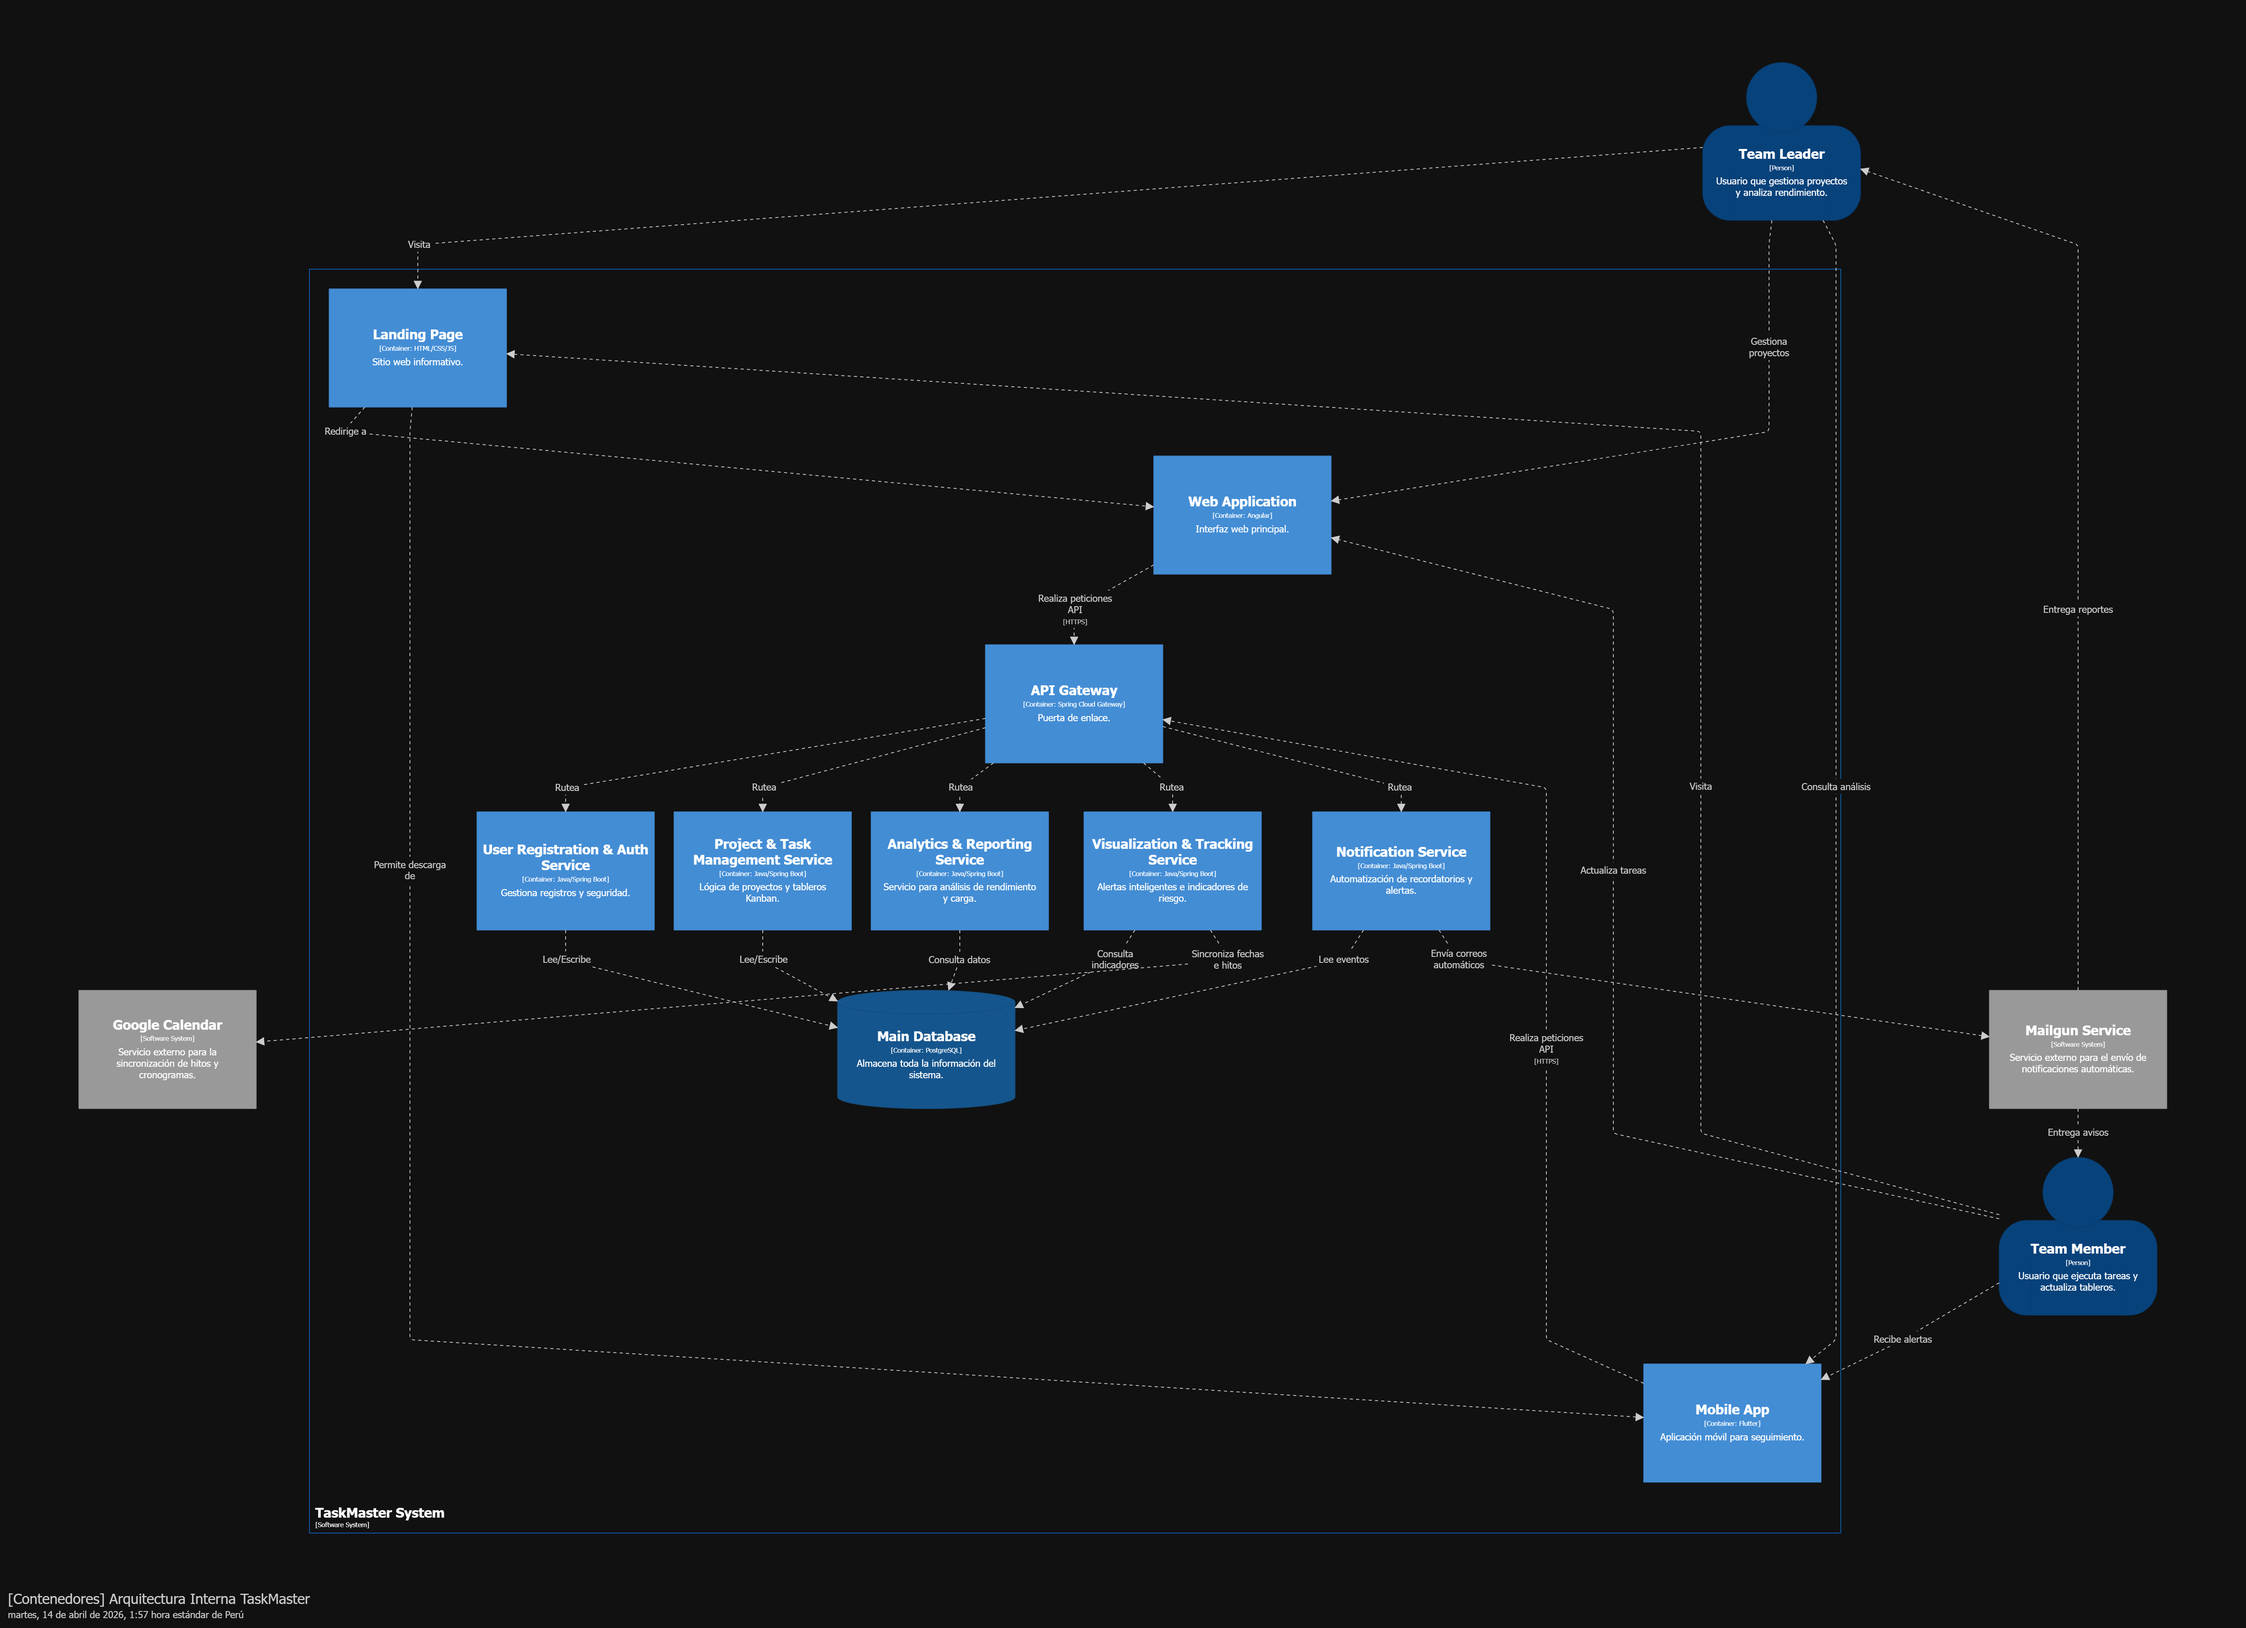
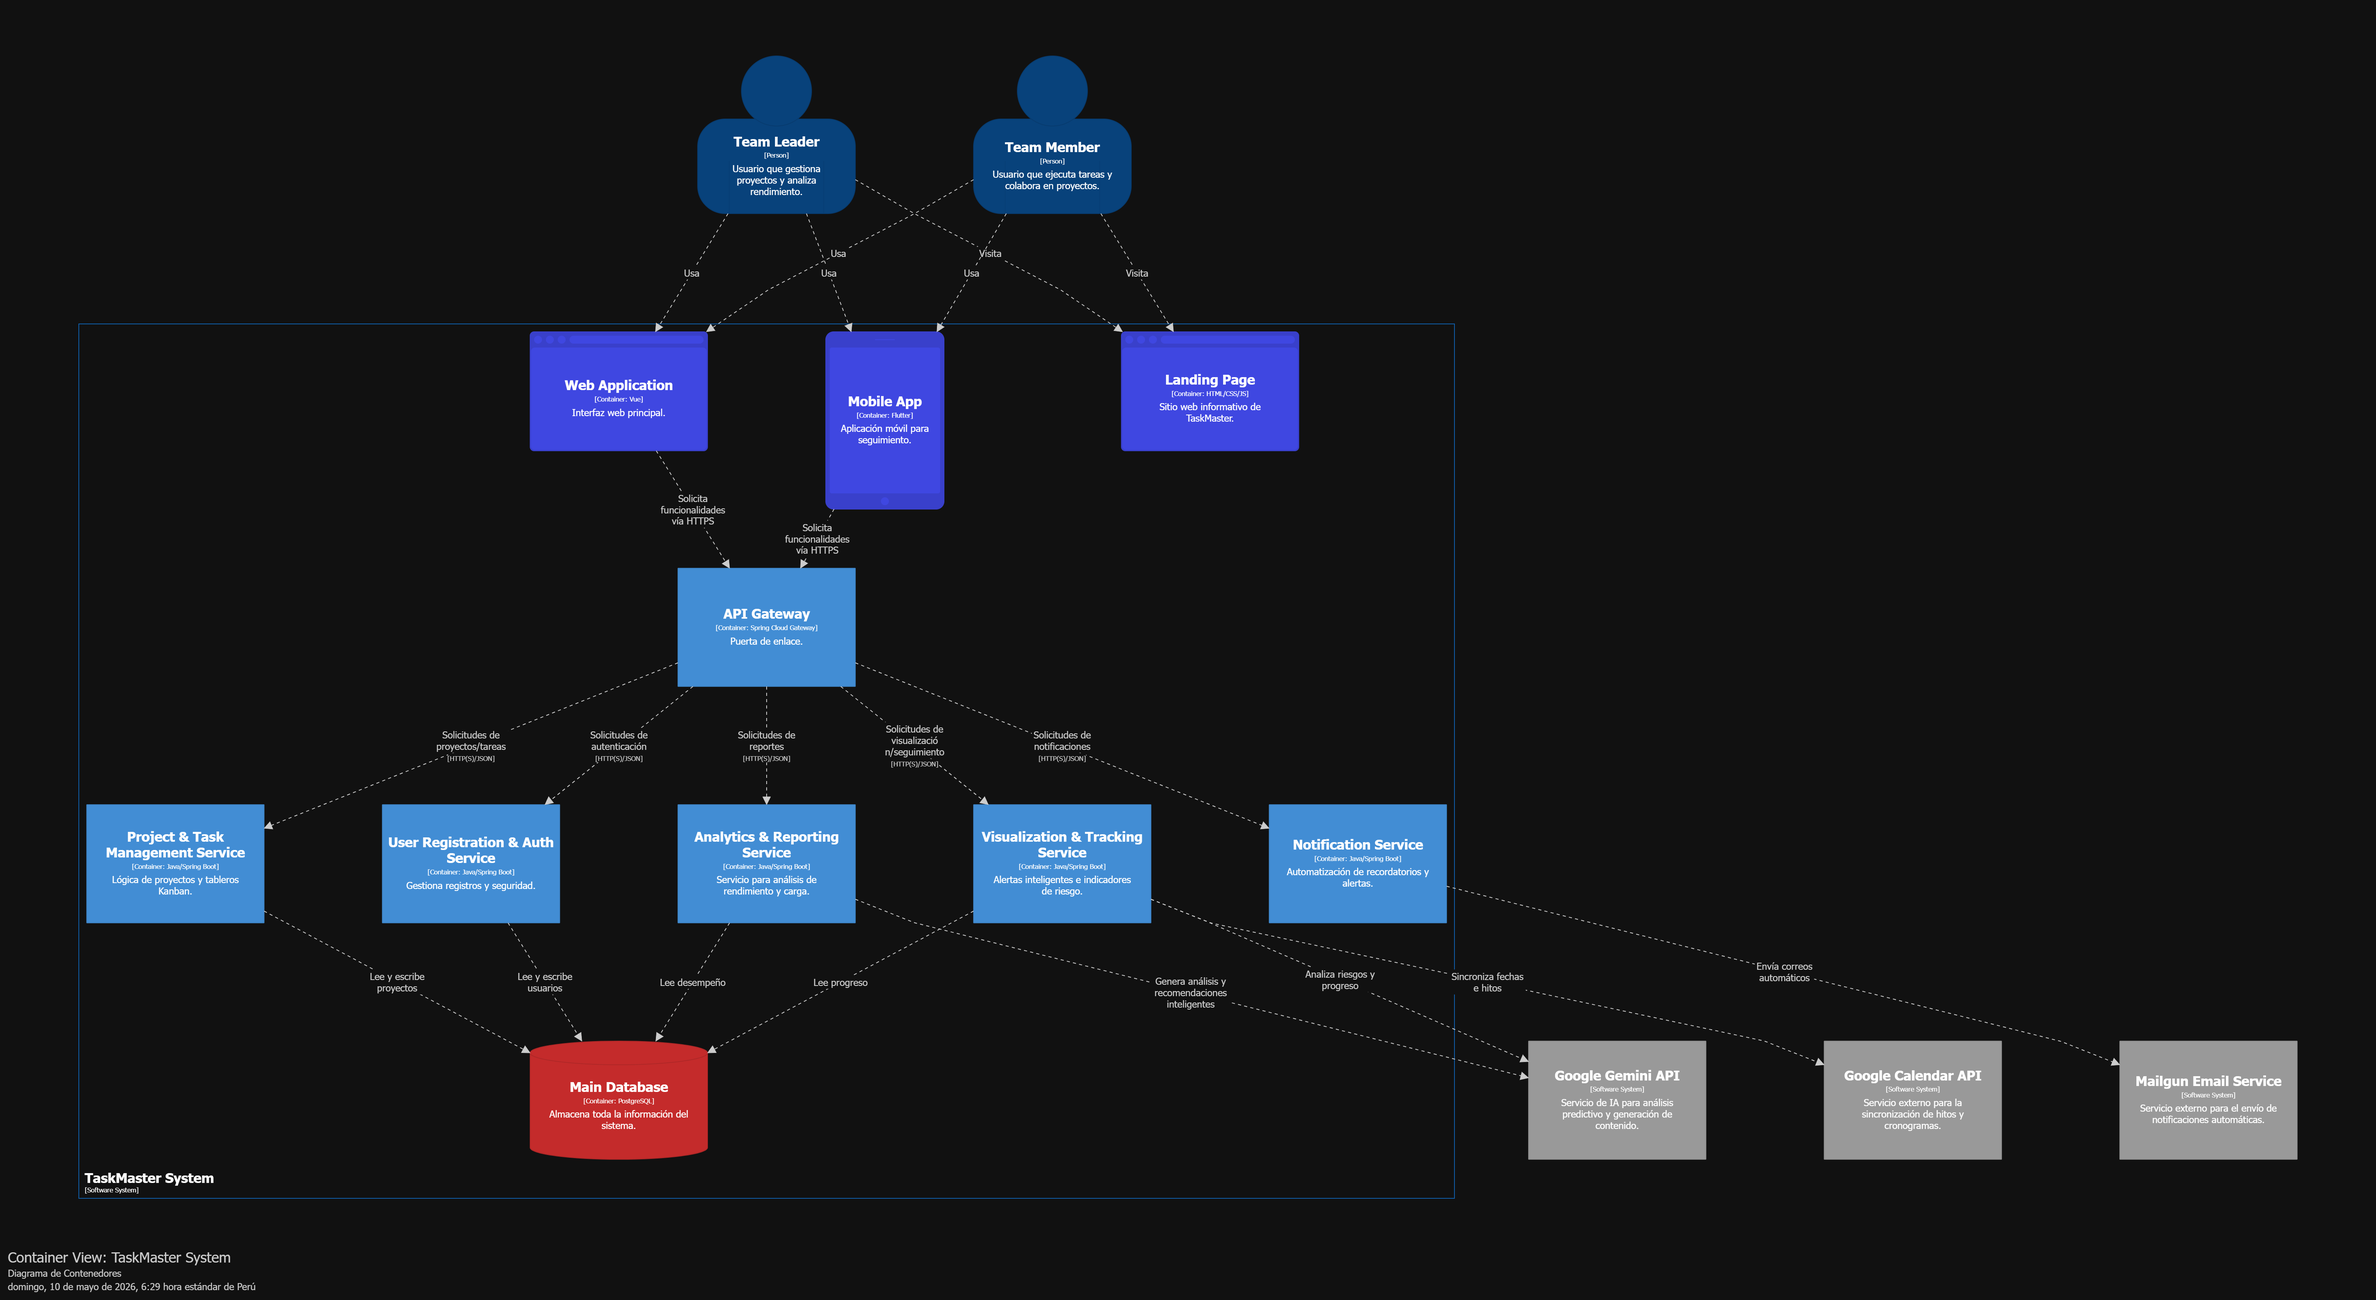
fix: c4 diagrams

diff --git a/README.md b/README.md
@@ -1606,13 +1606,13 @@ En esta sección se presenta el System Landscape Diagram, el cual permite visual
 
 #### 4.3.2. Software Architecture Context Level Diagrams
 
-El diagrama muestra a TaskMaster System en el centro de la interacción. Los usuarios gestionan proyectos y consultan análisis directamente en la plataforma, mientras que el sistema se encarga de orquestar la comunicación con servicios externos. La relación con Mailgun permite que el usuario reciba notificaciones automáticas, y la integración con Google Calendar garantiza que los hitos del proyecto estén siempre sincronizados fuera de la aplicación.
+El diagrama muestra a TaskMaster System en el centro de la interacción. Los usuarios gestionan proyectos y consultan análisis directamente en la plataforma, mientras que el sistema se encarga de orquestar la comunicación con servicios externos. La relación con Mailgun permite que el usuario reciba notificaciones automáticas, la integración con Google Calendar garantiza que los hitos del proyecto estén siempre sincronizados fuera de la aplicación y la integración con Google Gemini potencia la plataforma al proporcionar análisis predictivos sobre el rendimiento de los equipos, generación automática de resúmenes de proyectos y sugerencias inteligentes para la optimización de tareas.
 
 ![Context Level Diagram](assets/TB1/context_level_diagram.png)
 
 #### 4.3.3. Software Architecture Container Level Diagrams
 
-En este nivel, se observa cómo el tráfico entra a través de una Landing Page o directamente a las aplicaciones (Angular para web y Flutter para móvil). Todas las peticiones pasan por un API Gateway que las redirige a los servicios correspondientes de Spring Boot. Todos estos servicios comparten una base de datos central en PostgreSQL, asegurando la integridad de la información mientras se mantiene una arquitectura modular y fácil de mantener.
+En este nivel, se observa cómo el tráfico entra a través de una Landing Page o directamente a las aplicaciones (Vue para web y Flutter para móvil). Todas las peticiones pasan por un API Gateway que las redirige a los servicios correspondientes de Spring Boot. Todos estos servicios comparten una base de datos central en PostgreSQL, asegurando la integridad de la información mientras se mantiene una arquitectura modular y fácil de mantener.
 
 ![Container Level Diagram](assets/TB1/container_level_diagram.png)
 
